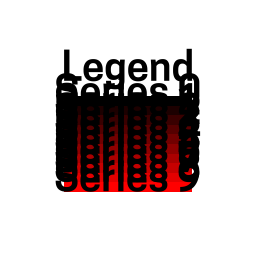
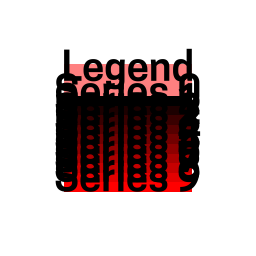
Working on legend rendering
impl Render for Box
Oops, my colors have been in BGRA the whole time!?

Changed region(s): [[0.25, 0.25, 0.75, 0.375]]

diff --git a/src/graphics.rs b/src/graphics.rs
@@ -108,6 +108,16 @@ impl<L: Render, R: Render> Render for Either<L, R> {
     }
 }
 
+impl<T: Render + ?Sized> Render for Box<T> {
+    fn styled_geoms(&self) -> Vec<StyledGeom> {
+        self.as_ref().styled_geoms()
+    }
+
+    fn texts(&self) -> Vec<Text> {
+        self.as_ref().texts()
+    }
+}
+
 impl<L: Render2, R: Render2> Render2 for Either<L, R> {
     fn styled_geoms(&self, viewport: Box2DData) -> Vec<StyledGeom> {
         match self {
@@ -268,30 +278,30 @@ impl Render for StyledGeom {
 }
 
 pub struct Series {
-    title: String,
-    color: [f32; 4],
+    pub title: String,
+    pub color: [f32; 4],
 }
 
 pub struct Legend {
-    title: String,
-    series: Vec<Series>,
+    pub title: String,
+    pub series: Vec<Series>,
     /// In data space, unfortunately. Should this eventually be in screen space or -1..1 space?
-    area: Box2DData,
+    pub area: Box2DData,
 }
 
 impl Render for Legend {
     fn styled_geoms(&self) -> Vec<StyledGeom> {
         let mut styled_geoms = vec![StyledGeom {
             geom: Geom::from_box2d(&self.area),
-            color: [1.0, 1.0, 1.0, 1.0],
+            color: [0.5, 0.5, 1.0, 1.0],
         }];
 
         let serieses = Box2DData::new(
-            Point2DData::new(self.area.min.x, self.area.min.y * 0.75 + self.area.max.y * 0.25),
             Point2DData::new(
-                self.area.max.x,
-                self.area.max.y,
+                self.area.min.x,
+                self.area.min.y * 0.75 + self.area.max.y * 0.25,
             ),
+            Point2DData::new(self.area.max.x, self.area.max.y),
         );
 
         for (series, series_box) in self
@@ -318,23 +328,23 @@ impl Render for Legend {
         }];
 
         let serieses = Box2DData::new(
-            Point2DData::new(self.area.min.x, self.area.min.y * 0.75 + self.area.max.y * 0.25),
             Point2DData::new(
-                self.area.max.x,
-                self.area.max.y,
+                self.area.min.x,
+                self.area.min.y * 0.75 + self.area.max.y * 0.25,
             ),
+            Point2DData::new(self.area.max.x, self.area.max.y),
         );
 
         for (series, series_box) in self
             .series
             .iter()
             .zip(slice_box2d(serieses, self.series.len()))
-            {
-                texts.push(Text {
-                    text: series.title.clone(),
-                    location: series_box.center(),
-                })
-            }
+        {
+            texts.push(Text {
+                text: series.title.clone(),
+                location: series_box.center(),
+            })
+        }
 
         texts
     }
@@ -548,6 +558,7 @@ fn create_vertices(
 }
 
 use self::wgpu::TextureFormat;
+use core::borrow::Borrow;
 use log::info;
 use std::cmp::min;
 use wgpu_glyph::{GlyphBrushBuilder, HorizontalAlign, Layout, Scale, Section, VerticalAlign};
@@ -726,6 +737,7 @@ pub fn capture<R: Render>(render: R, viewport: Box2DData, path: std::path::PathB
                 layout: Layout::default_single_line()
                     .h_align(HorizontalAlign::Center)
                     .v_align(VerticalAlign::Center),
+//                z: 2.0,  // Put it in foreground
                 ..Section::default()
             });
         }
@@ -821,31 +833,27 @@ mod tests {
 
     #[test]
     fn test_layers() {
-        let viewport = Box2DData::new(Point2DData::new(-2.0, -2.0), Point2DData::new(2.0, 2.0));
-        let fn_grid = FnGrid {
-            viewport: Some(viewport),
-            cell_size: 0.95,
-            color_fn: |point: Point2DData| [0.0, (point.x + 2.0) / 4.0, (point.y + 2.0) / 4.0, 1.0],
-            label_fn: |point: Point2DData| format!("{:?}", point),
-        };
-
         graphics::capture(
             vec![
-                StyledGeom {
-                    geom: Geom::Point(Point2DData::new(-0.5, -0.5)),
-                    color: [1.0, 1.0, 0.0, 1.0],
+                Legend {
+                    title: String::from("Background"),
+                    series: (0..10)
+                        .map(|i| Series {
+                            title: format!("Series {}", i),
+                            color: [0.0, 0.0, i as f32 / 9.0, 1.0],
+                        })
+                        .collect(),
+                    area: Box2DData::new(Point2DData::new(-1.0, -1.0), Point2DData::new(0.5, 0.5)),
                 },
-                StyledGeom {
-                    geom: Geom::Point(Point2DData::new(0.5, -0.5)),
-                    color: [1.0, 0.0, 1.0, 1.0],
-                },
-                StyledGeom {
-                    geom: Geom::Point(Point2DData::new(0.5, 0.5)),
-                    color: [0.0, 1.0, 1.0, 1.0],
-                },
-                StyledGeom {
-                    geom: Geom::Point(Point2DData::new(-0.5, 0.5)),
-                    color: [0.5, 0.5, 0.5, 1.0],
+                Legend {
+                    title: String::from("Foreground"),
+                    series: (0..10)
+                        .map(|i| Series {
+                            title: format!("Series {}", i),
+                            color: [0.0, i as f32 / 9.0, 0.0, 1.0],
+                        })
+                        .collect(),
+                    area: Box2DData::new(Point2DData::new(-0.5, -0.5), Point2DData::new(1.0, 1.0)),
                 },
             ],
             Box2DData::new(Point2DData::new(-1.0, -1.0), Point2DData::new(1.0, 1.0)),
@@ -875,7 +883,7 @@ mod tests {
 
     #[test]
     fn test_line_width() {
-        // This should show two lines that are exactly as wide as they are long, i.e. squares
+        // This should show two cyan lines that are exactly as wide as they are long, i.e. squares
         graphics::capture(
             vec![
                 StyledGeom {
@@ -883,14 +891,14 @@ mod tests {
                         points: vec![Point2DData::new(-1.0, -0.5), Point2DData::new(0.0, -0.5)],
                         width: 1.0,
                     },
-                    color: [1.0, 0.0, 1.0, 1.0],
+                    color: [0.0, 1.0, 1.0, 1.0],
                 },
                 StyledGeom {
                     geom: Geom::Lines {
                         points: vec![Point2DData::new(0.5, 0.0), Point2DData::new(0.5, 1.0)],
                         width: 1.0,
                     },
-                    color: [1.0, 0.0, 1.0, 1.0],
+                    color: [0.0, 1.0, 1.0, 1.0],
                 },
             ],
             Box2DData::new(Point2DData::new(-1.0, -1.0), Point2DData::new(1.0, 1.0)),

diff --git a/src/main.rs b/src/main.rs
@@ -1,7 +1,6 @@
 extern crate env_logger;
 extern crate wgpu;
 
-use either::Either;
 use log::*;
 use std::collections::HashMap;
 
@@ -87,7 +86,56 @@ fn best_station(stations: &[Station], location_x_y: Point2DData) -> BestStation 
     }
 }
 
-fn make_render(viewport: Box2DData) -> impl Render {
+#[cfg(test)]
+mod tests {
+    use crate::*;
+
+    #[test]
+    fn test_load_stations() {
+        let stations = load_stations(geo_types::Point::new(42.386755, -71.098472));
+
+        let station: &Station = stations
+            .iter()
+            .find(|station| station.name == "Gilman")
+            .unwrap();
+
+        assert!(
+            station.location_x_y.to_vector().length() < 500.0,
+            "Gilman is pretty close to city hall"
+        );
+        assert!(
+            station.location_x_y.to_vector().length() > 100.0,
+            "Gilman is not THAT close to city hall"
+        );
+        assert_eq!(station.minutes_to_ps_dtx, 19.0);
+    }
+
+    #[test]
+    fn test_best_station() {
+        let stations = load_stations(geo_types::Point::new(42.386755, -71.098472));
+
+        let best_station: BestStation = best_station(&stations, Point2DData::new(0.0, 0.0));
+
+        assert_eq!(
+            best_station.station.name, "Gilman",
+            "Gilman is closest to city hall"
+        );
+
+        assert!(best_station.time > 20.0);
+        assert!(best_station.time < 25.0);
+    }
+}
+
+fn main() {
+    env_logger::init();
+
+    info!("Entering script...");
+
+    let viewport = Box2DData::new(
+        Point2DData::new(-3000.0, -3000.0),
+        Point2DData::new(3000.0, 3000.0),
+    );
+
     // Somerville city hall (93 Highland)
     let centroid: geo_types::Point<f32> = geo_types::Point::new(42.386755, -71.098472);
 
@@ -214,8 +262,12 @@ fn make_render(viewport: Box2DData) -> impl Render {
 
     let stations_2 = stations.clone();
 
-    vec![
-        Either::Right(FnGrid {
+    let n_zones = 8;
+
+    let time_to_color = |time| scale_temperature(1.0 - (time - 10.0) / 40.0, n_zones as f32);
+
+    let render: Vec<Box<Render>> = vec![
+        Box::new(FnGrid {
             viewport: Some(viewport),
             cell_size: 300.0,
             color_fn: move |point| {
@@ -230,71 +282,31 @@ fn make_render(viewport: Box2DData) -> impl Render {
                     MbtaLine::Red => [217.0 / 255.0, 37.0 / 255.0, 10.0 / 255.0, 1.0],
                 };
 
-                scale_temperature(1.0 - (best_after.time - 10.0) / 40.0, 8.0)
+                time_to_color(best_after.time)
             },
             label_fn: move |point| {
                 let best_after = best_station(&stations_2, point);
                 format!("{}", best_after.time as usize)
             },
         }),
-        Either::Left(osm_styled_geoms),
-    ]
-}
+        Box::new(osm_styled_geoms),
+        Box::new(Legend {
+            title: String::from("Time to Downtown Boston"),
+            series: (0..n_zones)
+                .map(|i| {
+                    let time = 10.0 + (i as f32 + 0.5) * (40.0 - 10.0) / n_zones as f32;
+                    Series {
+                        title: format!("{}", time),
+                        color: time_to_color(time),
+                    }
+                })
+                .collect(),
+            area: Box2DData::new(
+                Point2DData::new(1500.0, -3000.0),
+                Point2DData::new(3000.0, -1500.0),
+            ),
+        }),
+    ];
 
-#[cfg(test)]
-mod tests {
-    use crate::*;
-
-    #[test]
-    fn test_load_stations() {
-        let stations = load_stations(geo_types::Point::new(42.386755, -71.098472));
-
-        let station: &Station = stations
-            .iter()
-            .find(|station| station.name == "Gilman")
-            .unwrap();
-
-        assert!(
-            station.location_x_y.to_vector().length() < 500.0,
-            "Gilman is pretty close to city hall"
-        );
-        assert!(
-            station.location_x_y.to_vector().length() > 100.0,
-            "Gilman is not THAT close to city hall"
-        );
-        assert_eq!(station.minutes_to_ps_dtx, 19.0);
-    }
-
-    #[test]
-    fn test_best_station() {
-        let stations = load_stations(geo_types::Point::new(42.386755, -71.098472));
-
-        let best_station: BestStation = best_station(&stations, Point2DData::new(0.0, 0.0));
-
-        assert_eq!(
-            best_station.station.name, "Gilman",
-            "Gilman is closest to city hall"
-        );
-
-        assert!(best_station.time > 20.0);
-        assert!(best_station.time < 25.0);
-    }
-}
-
-fn main() {
-    env_logger::init();
-
-    info!("Entering script...");
-
-    let viewport = Box2DData::new(
-        Point2DData::new(-3000.0, -3000.0),
-        Point2DData::new(3000.0, 3000.0),
-    );
-
-    graphics::capture(
-        make_render(viewport),
-        viewport,
-        PathBuf::from("output/map.png"),
-        4096,
-    );
+    graphics::capture(render, viewport, PathBuf::from("output/map.png"), 4096);
 }
